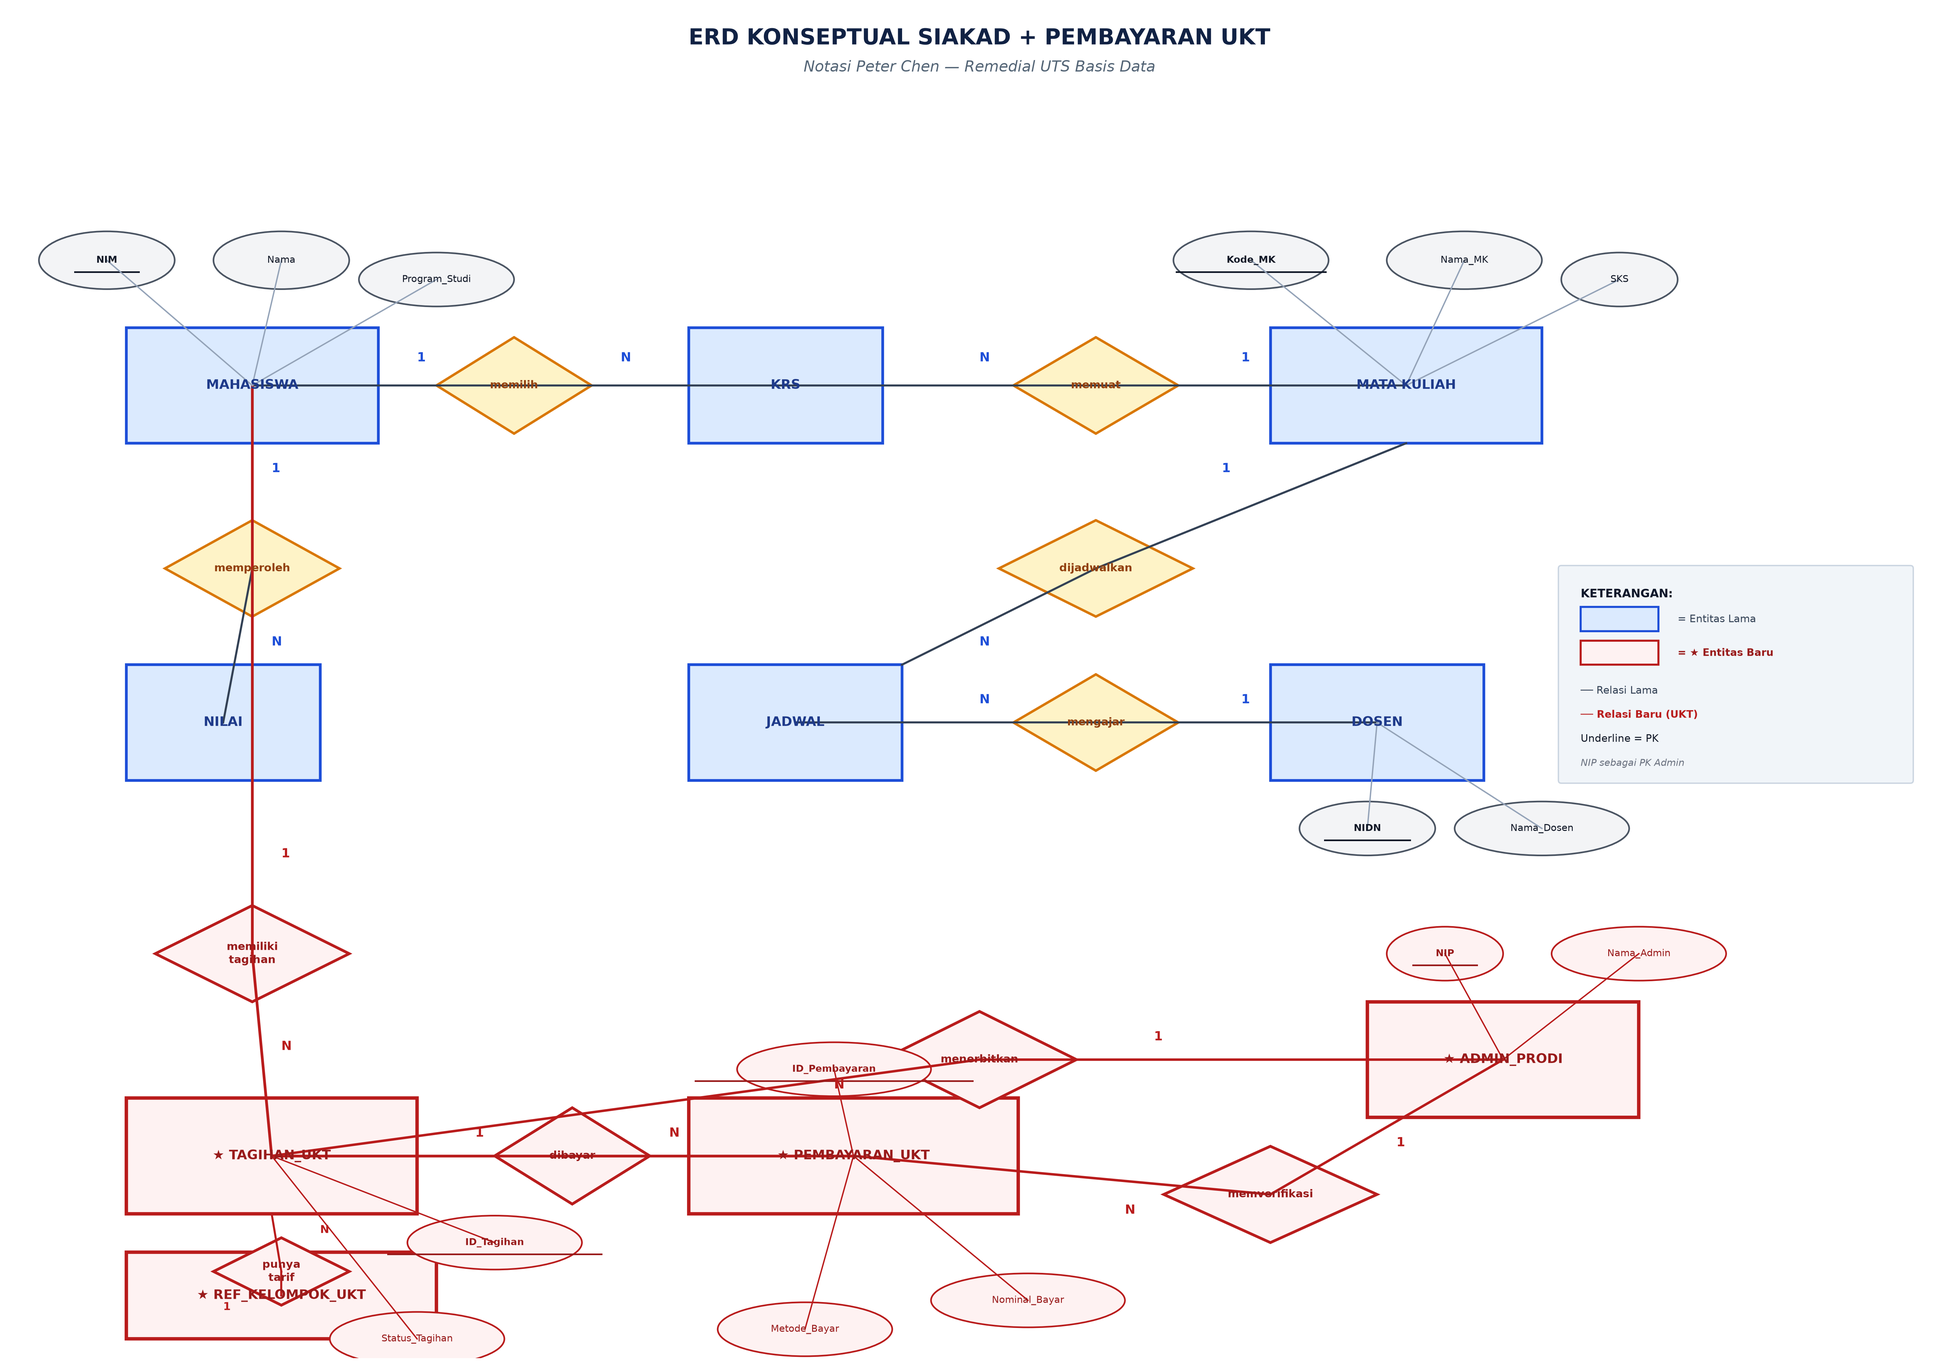
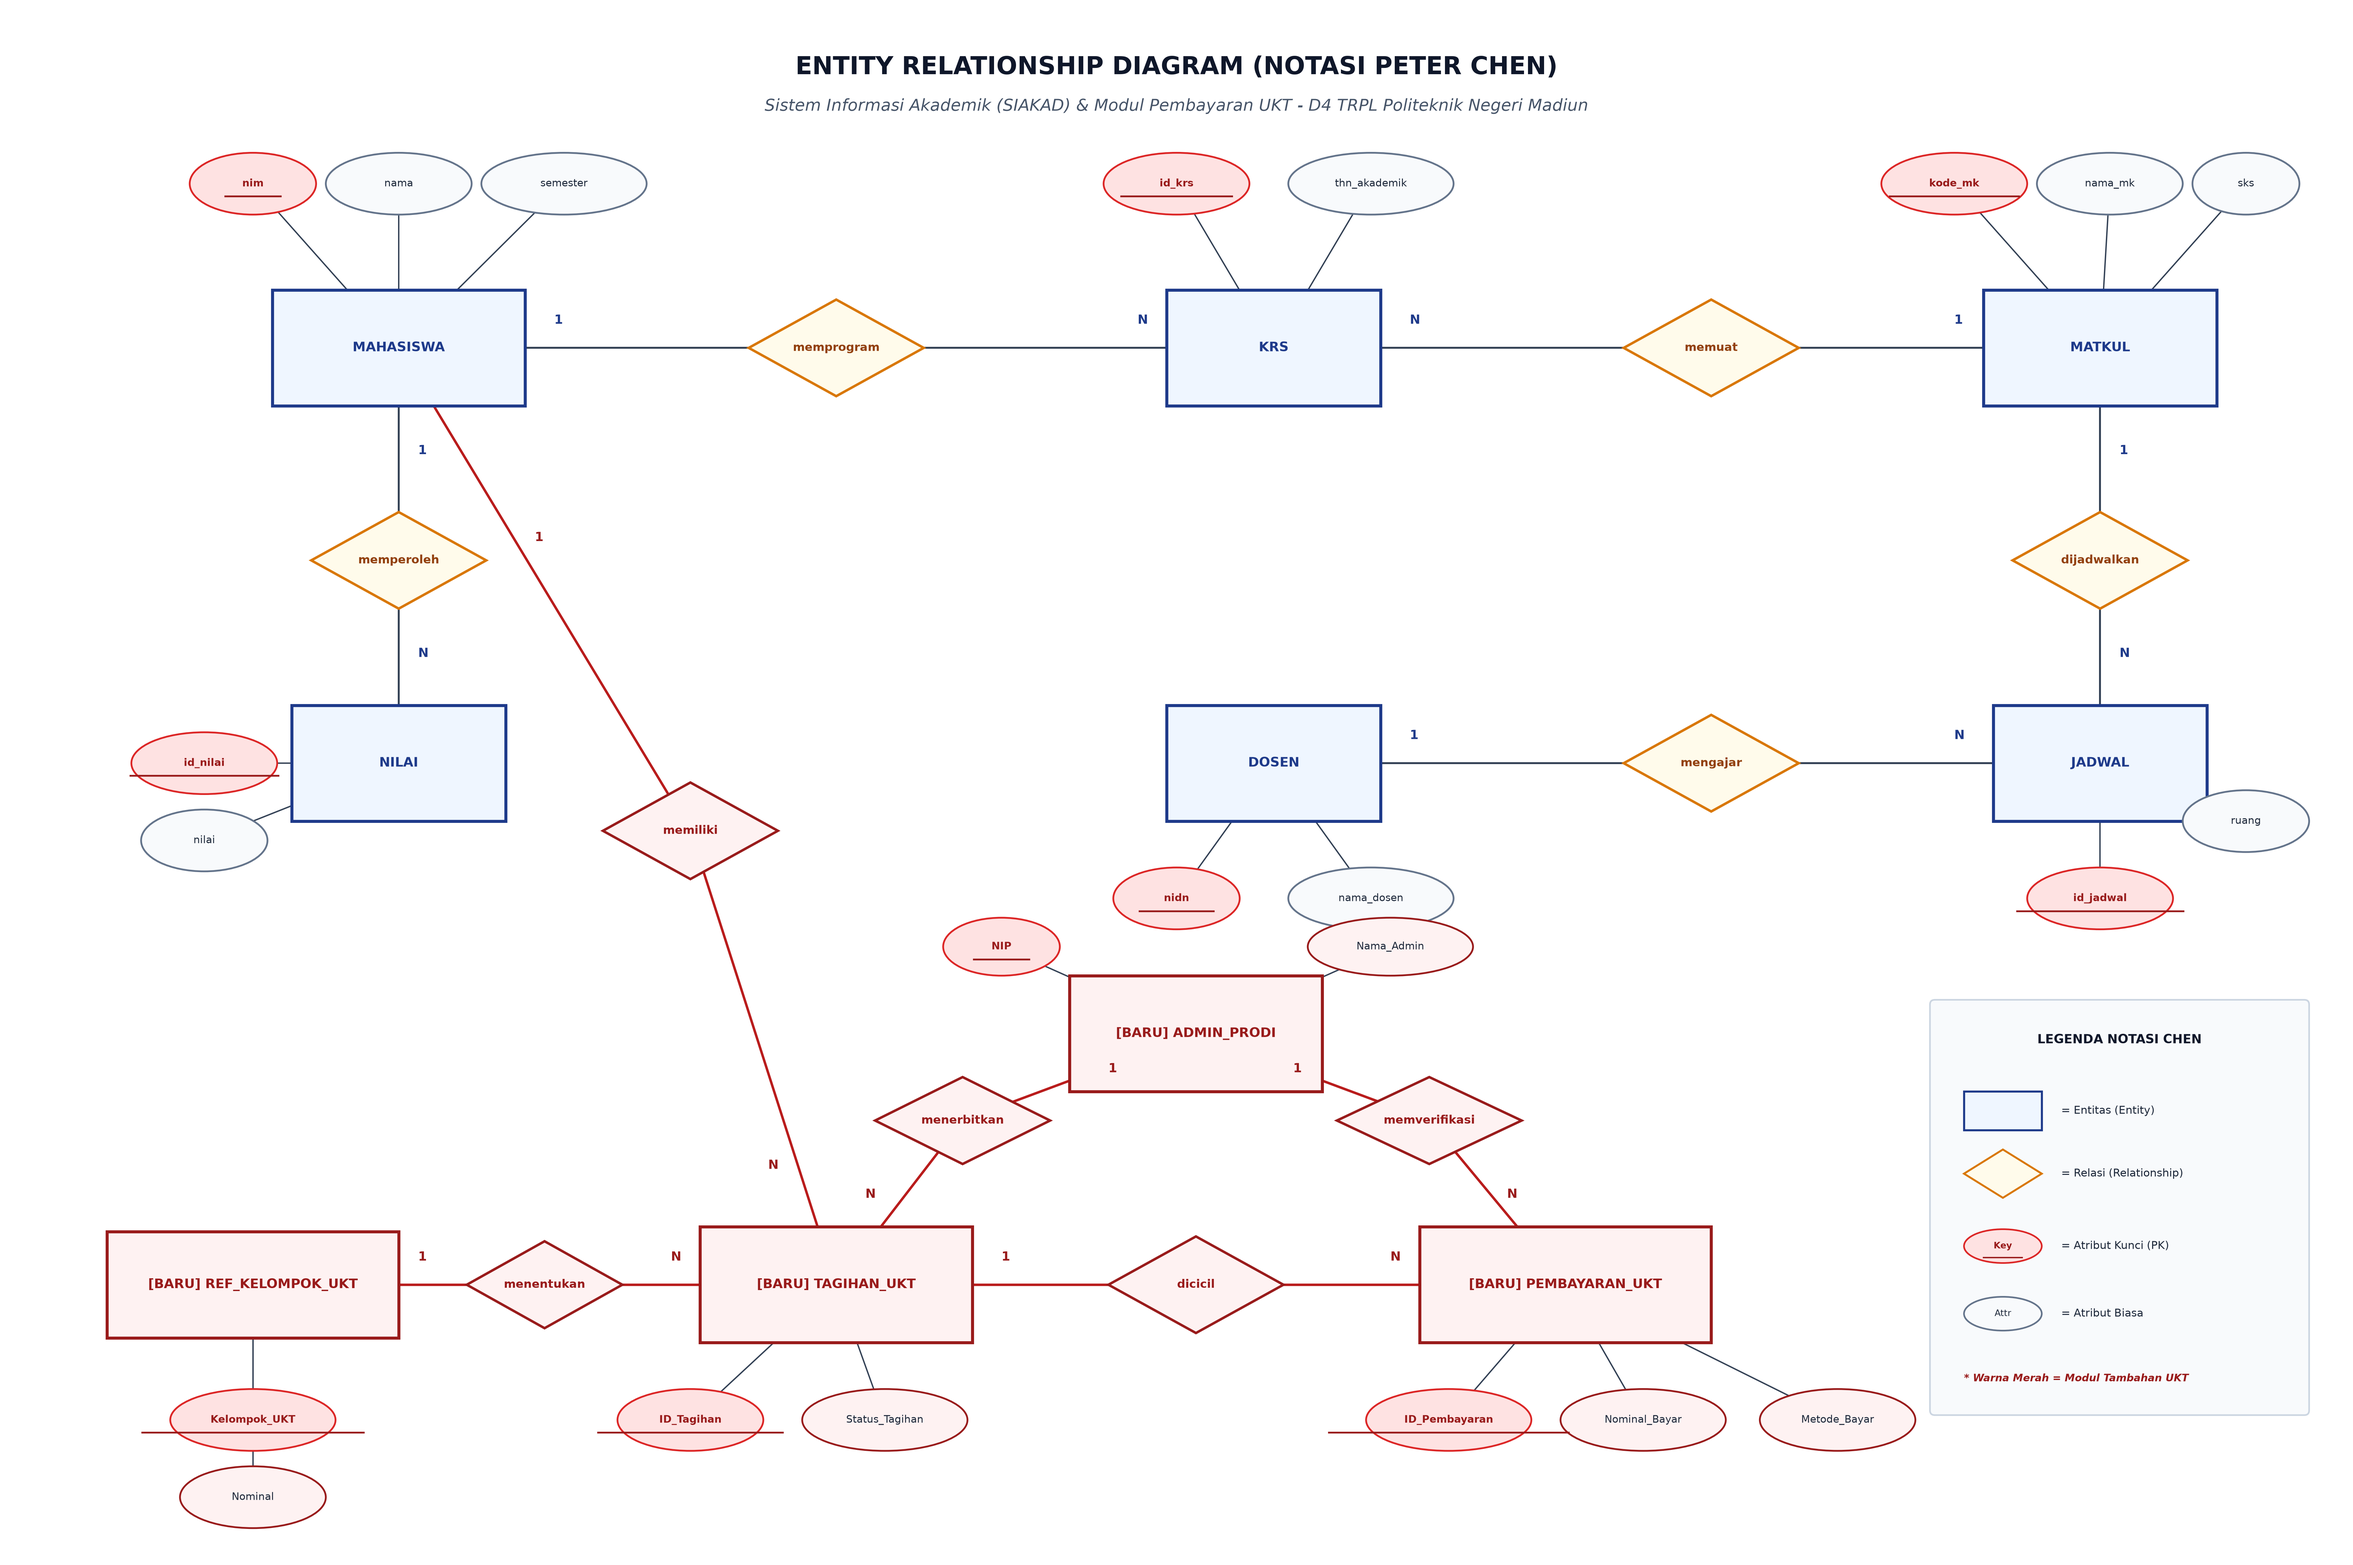
fix: refactor notasi chen diagram - modular clean mermaid, high-res grid png, and clean drawio

diff --git a/264311048_Muhammad Amirul Hafidz_Basis Data_Remedial UTS.md b/264311048_Muhammad Amirul Hafidz_Basis Data_Remedial UTS.md
@@ -161,84 +161,74 @@ Berikut adalah visualisasi lengkap diagram ERD dengan Notasi Peter Chen yang mem
 
 ---
 
-#### B. Diagram Alur Semantik Notasi Chen (Mermaid Flowchart)
-Diagram berikut merepresentasikan keterhubungan entitas dan belah ketupat relasi berserta atribut kuncinya dengan kaidah Notasi Chen:
+#### B. Diagram Alur Semantik Notasi Chen (Mermaid Flowchart Berstruktur Modul)
+Untuk menjaga kerapian tampilan dan menghindari persilangan garis acak (*spaghetti lines*) pada rendering Markdown GitHub, relasi Notasi Chen dikelompokkan secara terstruktur ke dalam dua sub-modul yang saling terintegrasi:
 
 ```mermaid
-flowchart TD
-    %% Styling Classes sesuai Notasi Chen
-    classDef entityStyle fill:#1E3A8A,stroke:#172554,color:#FFFFFF,stroke-width:2px,font-weight:bold;
-    classDef entityNewStyle fill:#991B1B,stroke:#7F1D1D,color:#FFFFFF,stroke-width:2px,font-weight:bold;
-    classDef relStyle fill:#FEF3C7,stroke:#D97706,color:#92400E,stroke-width:2px,font-weight:bold;
-    classDef pkStyle fill:#FEE2E2,stroke:#DC2626,color:#991B1B,stroke-width:1.5px,font-size:11px;
-    classDef attrStyle fill:#F1F5F9,stroke:#64748B,color:#1E293B,stroke-width:1px,font-size:11px;
+flowchart TB
+    %% Styling Classes Notasi Peter Chen
+    classDef entityStyle fill:#EFF6FF,stroke:#1E3A8A,color:#1E3A8A,stroke-width:2px,font-weight:bold;
+    classDef entityNewStyle fill:#FEF2F2,stroke:#991B1B,color:#991B1B,stroke-width:2.2px,font-weight:bold;
+    classDef relStyle fill:#FFFBEB,stroke:#D97706,color:#92400E,stroke-width:1.8px,font-weight:bold;
+    classDef relNewStyle fill:#FEF2F2,stroke:#991B1B,color:#991B1B,stroke-width:1.8px,font-weight:bold;
 
-    %% Entitas-Entitas (Persegi Panjang)
-    E_ADM["ADMIN_PRODI"]:::entityNewStyle
-    E_REF["REF_KELOMPOK_UKT"]:::entityNewStyle
-    E_TAG["TAGIHAN_UKT"]:::entityNewStyle
-    E_BAY["PEMBAYARAN_UKT"]:::entityNewStyle
-    E_MHS["MAHASISWA"]:::entityStyle
-    E_KRS["KRS"]:::entityStyle
-    E_MK["MATKUL"]:::entityStyle
-    E_DSN["DOSEN"]:::entityStyle
-    E_JDW["JADWAL"]:::entityStyle
-    E_NIL["NILAI"]:::entityStyle
+    subgraph MODUL_AKADEMIK [" MODUL AKADEMIK EKSISTING "]
+        direction TB
+        E_MHS["MAHASISWA"]:::entityStyle
+        R_KRS{"memprogram"}:::relStyle
+        E_KRS["KRS"]:::entityStyle
+        R_MK{"memuat"}:::relStyle
+        E_MK["MATKUL"]:::entityStyle
 
-    %% Relasi-Relasi (Belah Ketupat)
-    R_TERBIT{"menerbitkan"}:::relStyle
-    R_VERIF{"memverifikasi"}:::relStyle
-    R_TARIF{"menentukan"}:::relStyle
-    R_TAGIH{"memiliki"}:::relStyle
-    R_CICIL{"dicicil"}:::relStyle
-    R_KRS{"memprogram"}:::relStyle
-    R_AMBIL{"diambil"}:::relStyle
-    R_AJAR{"mengajar"}:::relStyle
-    R_JDW{"dijadwalkan"}:::relStyle
-    R_NIL{"memperoleh"}:::relStyle
-    R_EVAL{"dinilai"}:::relStyle
+        E_MHS ---|1| R_KRS ---|N| E_KRS
+        E_KRS ---|N| R_MK ---|1| E_MK
 
-    %% Atribut Kunci Utama (Oval Bergaris Bawah)
-    A_NIP(["<u>NIP</u> (PK)"]):::pkStyle --- E_ADM
-    A_KEL(["<u>Kelompok_UKT</u> (PK)"]):::pkStyle --- E_REF
-    A_IDT(["<u>ID_Tagihan</u> (PK)"]):::pkStyle --- E_TAG
-    A_IDB(["<u>ID_Pembayaran</u> (PK)"]):::pkStyle --- E_BAY
-    A_NIM(["<u>nim</u> (PK)"]):::pkStyle --- E_MHS
-    A_KRS(["<u>id_krs</u> (PK)"]):::pkStyle --- E_KRS
-    A_KMK(["<u>kode_mk</u> (PK)"]):::pkStyle --- E_MK
-    A_NDN(["<u>nidn</u> (PK)"]):::pkStyle --- E_DSN
+        R_NIL{"memperoleh"}:::relStyle
+        E_NIL["NILAI"]:::entityStyle
+        E_MHS ---|1| R_NIL ---|N| E_NIL
 
-    %% Koneksi Entitas - Relasi dengan Kardinalitas Notasi Chen (1:N)
-    E_ADM ---|1| R_TERBIT ---|N| E_TAG
-    E_ADM ---|1| R_VERIF ---|N| E_BAY
-    E_REF ---|1| R_TARIF ---|N| E_TAG
-    E_MHS ---|1| R_TAGIH ---|N| E_TAG
-    E_TAG ---|1| R_CICIL ---|N| E_BAY
-    E_MHS ---|1| R_KRS ---|N| E_KRS
-    E_MK ---|1| R_AMBIL ---|N| E_KRS
-    E_DSN ---|1| R_AJAR ---|N| E_JDW
-    E_MK ---|1| R_JDW ---|N| E_JDW
-    E_MHS ---|1| R_NIL ---|N| E_NIL
-    E_MK ---|1| R_EVAL ---|N| E_NIL
+        R_JDW{"dijadwalkan"}:::relStyle
+        E_JDW["JADWAL"]:::entityStyle
+        R_AJAR{"mengajar"}:::relStyle
+        E_DSN["DOSEN"]:::entityStyle
+
+        E_MK ---|1| R_JDW ---|N| E_JDW
+        E_DSN ---|1| R_AJAR ---|N| E_JDW
+    end
+
+    subgraph MODUL_FINANSIAL [" MODUL PENAMBAHAN BISNIS FINANSIAL (UKT) "]
+        direction TB
+        E_REF["REF_KELOMPOK_UKT"]:::entityNewStyle
+        R_TARIF{"menentukan"}:::relNewStyle
+        E_TAG["TAGIHAN_UKT"]:::entityNewStyle
+        R_CICIL{"dicicil"}:::relNewStyle
+        E_BAY["PEMBAYARAN_UKT"]:::entityNewStyle
+
+        E_REF ---|1| R_TARIF ---|N| E_TAG
+        E_TAG ---|1| R_CICIL ---|N| E_BAY
+
+        E_ADM["ADMIN_PRODI"]:::entityNewStyle
+        R_TERBIT{"menerbitkan"}:::relNewStyle
+        R_VERIF{"memverifikasi"}:::relNewStyle
+
+        E_ADM ---|1| R_TERBIT ---|N| E_TAG
+        E_ADM ---|1| R_VERIF ---|N| E_BAY
+    end
+
+    %% Jembatan Integrasi Bisnis: Mahasiswa memiliki Tagihan UKT
+    R_TAG{"memiliki tagihan"}:::relNewStyle
+    E_MHS ===|1| R_TAG ===|N| E_TAG
 ```
 
 ---
 
-### 2.6 Panduan Menyusun Notasi Chen di [app.diagrams.net](https://app.diagrams.net/)
+### 2.6 Panduan Membuka & Mengedit Notasi Chen Presisi di [app.diagrams.net](https://app.diagrams.net/)
 
-Jika mahasiswa ingin menggambar atau merevisi Notasi Chen secara visual melalui web editor [app.diagrams.net](https://app.diagrams.net/) (draw.io):
-
-1. **Aktifkan Shape Library Notasi Chen**:
-   * Buka panel kiri bawah diagrams.net, klik **More Shapes**.
-   * Cari kelompok **Entity Relation**, centang kotaknya, lalu klik **Apply**.
-2. **Gunakan Bangun Notasi Chen yang Tepat**:
-   * **Entity**: Pilih bentuk persegi panjang bersudut tegas (`Entity`).
-   * **Relationship**: Pilih bentuk belah ketupat (`Relationship`).
-   * **Attribute**: Pilih bentuk oval/elips (`Attribute`).
-   * **Key Attribute**: Pilih bentuk oval dengan teks bergaris bawah (`Underlined Attribute`) untuk Primary Key.
-3. **Pemberian Kardinalitas**:
-   * Tarik garis lurus (*Straight line*) dari Entitas ke Belah Ketupat Relasi.
-   * Klik dua kali pada ujung garis dekat persegi panjang entitas, lalu ketikkan angka kardinalitas **`1`** atau huruf **`N`** sesuai rasio relasi yang ditentukan.
+Agar kamu mendapatkan diagram Notasi Chen yang **100% rapi, simetris, sejajar pada grid 10px, dan siap diekspor**:
+1. Telah disediakan berkas diagram XML khusus Notasi Chen: **`erd_chen_siakad_ukt.drawio`** pada repositori ini.
+2. Buka web editor **[app.diagrams.net](https://app.diagrams.net/)**.
+3. Pilih **Open Existing Diagram** -> pilih berkas **`erd_chen_siakad_ukt.drawio`**.
+4. Semua elemen (Persegi Panjang Entitas, Belah Ketupat Relasi, dan Oval Atribut) telah disusun simetris pada 3 baris grid tanpa ada garis yang saling bertubrukan.
 
 ---
 
